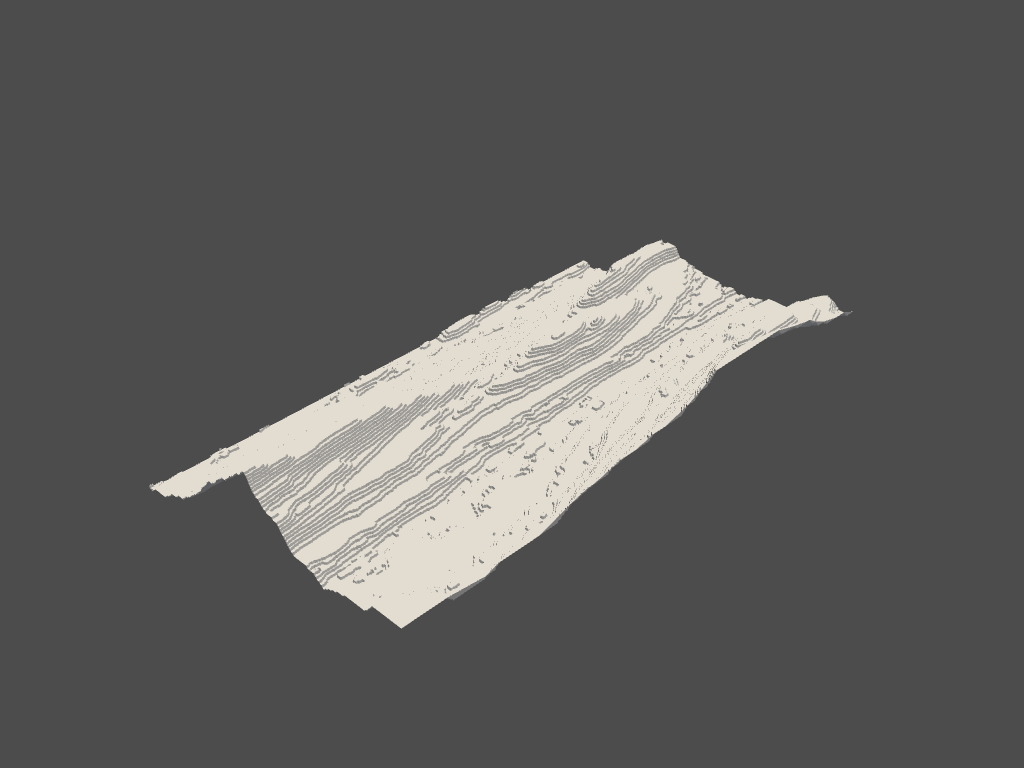
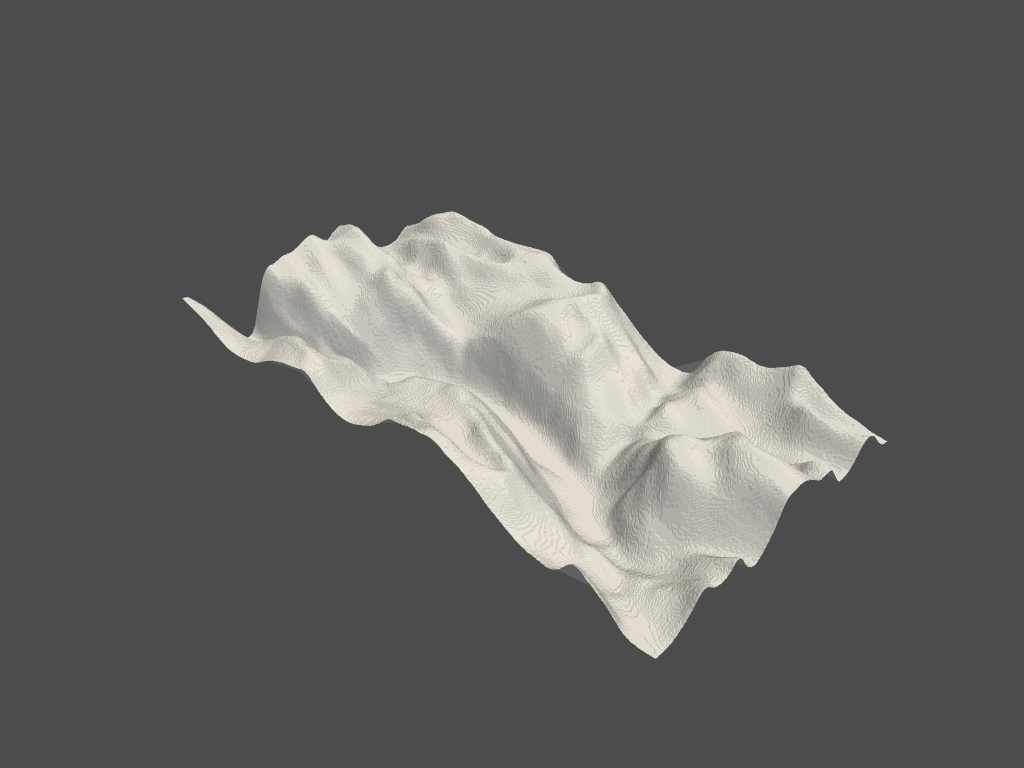
Added code from Tollak

Changed region(s): [[0.125, 0.2812, 0.875, 0.875]]

diff --git a/get_digital_surface_model_wms/get_wms.py b/get_digital_surface_model_wms/get_wms.py
@@ -4,6 +4,33 @@ import requests
 import numpy as np
 import pyvista as pv
 
+def user_input():
+    global bbox2string, input_list
+
+    print("----------MAP TO 3D-PRINT-MODEL----------")
+    print("This program converts a terrain model of a chosen \nnorwegian geographic area to a .stl file for 3d printing\n")
+    print("1. First go to Google Maps and find the center point of \nan area in Norway you want to print a height model of.")
+    print("2. Then enter the coordinates, the size of area in meters,\nresolution in pixels and a scaling factor.")
+    print("Examples: \nGaustadtoppen[ 59.854102, 8.648146, 2000, 2000, 1000, 1 ] \nGeiranger[ 62.119509, 7.148389, 5000, 2500, 500, 0.5 ]\n")
+
+    n = 6  # number of input_list elements
+    input_list = list(map(float, input("Enter lat,lon,width,height,resolution,scalefactor: ").strip().split(',')))[:n]
+    bbox = [input_list[1] - (input_list[2] / 50000), input_list[0] - (input_list[3] / 50000), input_list[1] + (input_list[2] / 50000), input_list[0] + (input_list[3] / 50000)]
+    bbox2string = ','.join(str(i) for i in bbox)
+
+    #print(f'[INFO]: Data entered: {input_list}')
+
+
+def calculate_width_height():
+    global width, height
+
+    resolution = int(input_list[4])     # resolution of picture width in pixels
+    height = int(resolution / (input_list[2] / input_list[3]))
+    width = resolution
+
+    print(f"[INFO]: Image resolution: {width} x {height} pixels")
+
+
 def main():
     # TODO: "Classify" this python file
 
@@ -15,34 +42,36 @@ def main():
 
     # API get request details
     wms_url = "https://wms.geonorge.no/skwms1/wms.hoyde-dom?"
+
     query_data = {'VERSION': '1.3.0',
                   'REQUEST': 'GetMap',
                   'FORMAT': 'image/png',
                   'STYLES': 'default',
                   'LAYERS': 'DOM:None',
-                  'CRS': 'EPSG:32633',
-                  'BBOX': '280581.05308146186,6902727.670430477,283107.12974533665,6911610.535459495',
-                  'WIDTH': '1014',
-                  'HEIGHT': '611'}
-    # TODO: Make width, height and bbox input dynamic
+                  'CRS': 'CRS:84',          #Geoedic system to enter google map coordinates in decimal degrees
+                  'BBOX': str(bbox2string),
+                  'WIDTH': str(width),
+                  'HEIGHT': str(height)}
 
     # Make the request and store returned data in response
     response = requests.get(wms_url, query_data) # TODO: Add query timeout and print HTTP response in debug mode
     # Open the response image as binary data
+
     bin_img = Image.open(BytesIO(response.content))
     # Blur image to filter "noise". Makes topology surface smoother
     blur_img = bin_img.filter(ImageFilter.BoxBlur(5)) # TODO: Maybe filtering constant should be a parameter for the user to input?
     # Convert the blurred binary image to numpy array
     np_img = np.asarray(blur_img)
 
-    #img_bin.show() # Show downloaded image
+    print("[INFO]: Showing surface model image...")
+    # Could do something with numpy here.
+    npy_img = np.asarray(bin_img)
+    npy2_img = Image.fromarray(np.uint8(npy_img))
+    npy2_img.show()
 
-    # Define width and height of image TODO: These variables should also be dynamic
-    width = 1014
-    height = 611
 
     # Preallocate empty array with the size of the image
-    height_data_size = np.zeros(1014*611)
+    height_data_size = np.zeros(width*height)
 
     if debug:
         print(height_data_size.shape) # Shows the initial shape of the array
@@ -55,13 +84,13 @@ def main():
     if debug:
         print(height_data_z.shape) # Should return a Numpy array with shape width, height
 
-    scale = 4 # Scaling factor for the terrain height point difference (Himalaya factor)
+    scale = input_list[5] # Scaling factor for the terrain height point difference (Himalaya factor)
 
     for y, row in enumerate(np_img):
         for x, column in enumerate(row):
             height_data_z[x,y] = column[0] * scale # Populate the z array with the value of the red color in the pixel of that row and column (only one color is needed as R=G=B)
-            height_data_x[x,y] = int(x)            # Populate the x array with the x index of the z value stored in height_data_z
-            height_data_y[x,y] = int(y)            # Populate the y array with the y index of the z value stored in height_data_z
+            height_data_y[x,y] = int(x)            # Populate the x array with the x index of the z value stored in height_data_z
+            height_data_x[x,y] = int(y)            # Populate the y array with the y index of the z value stored in height_data_z
 
     # Add xyz coordinates into a single array (so that height_data_3d represents the (x, y, z) value of all the data points
     height_data_3d = np.c_[height_data_x.reshape(-1), height_data_y.reshape(-1), height_data_z.reshape(-1)]

diff --git a/get_digital_surface_model_wms/main.py b/get_digital_surface_model_wms/main.py
@@ -1,0 +1,12 @@
+import get_wms
+
+def main():
+    get_wms.user_input()
+    get_wms.calculate_width_height()
+    get_wms.main()
+
+    return ()
+
+
+if __name__ == '__main__':
+    main()
